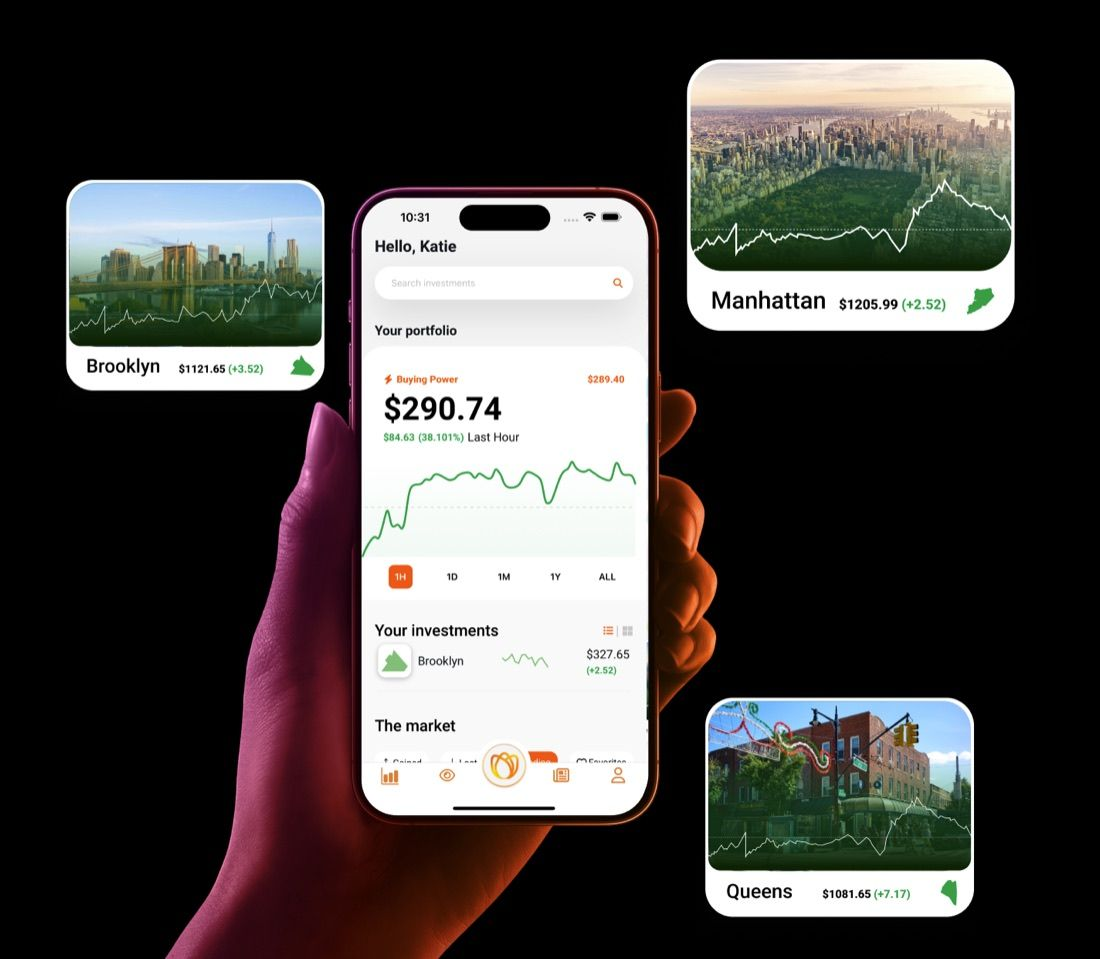
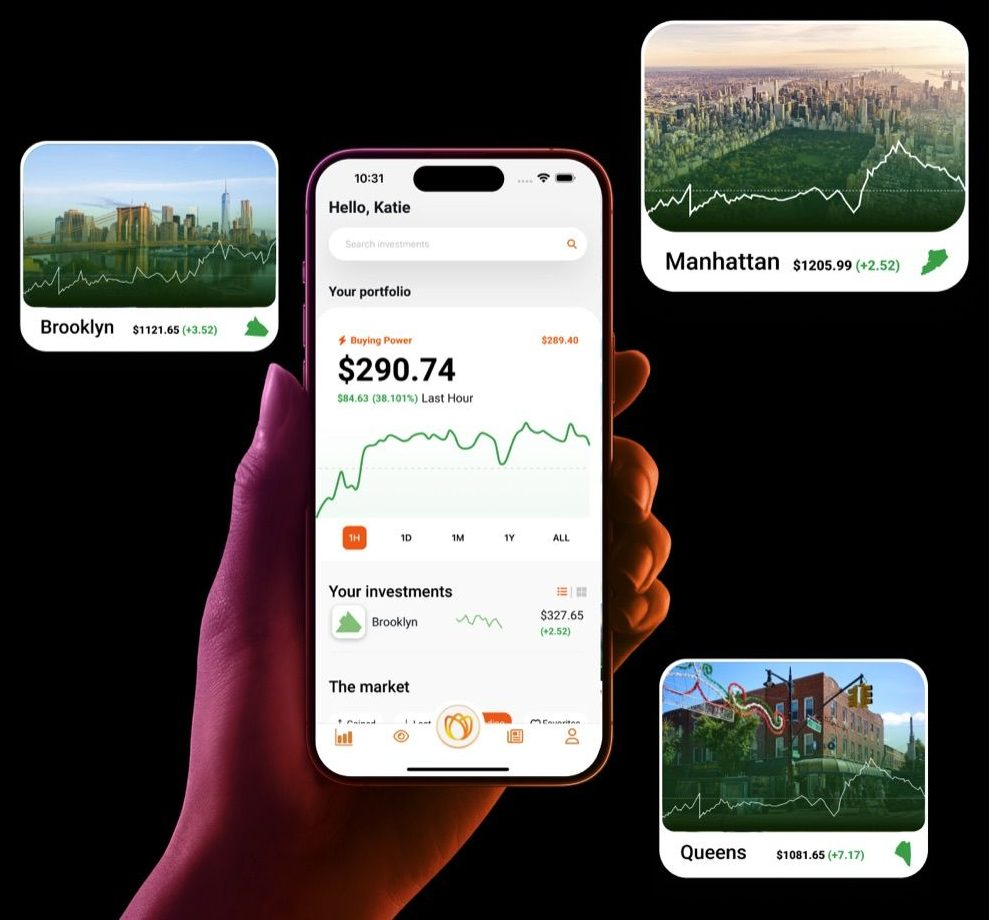
wip: 12 file(s) in progress
STATUS.md
public/story/cs173-proof.jpg
public/story/tulip-app.jpg
src/data.ts
src/data/journey.ts
src/site/Sections.tsx
src/site/StoryMode.tsx
src/site/ask/knowledge.ts
src/site/game/chapters.ts
src/site/game/scene.ts
src/site/pages/shared.tsx
src/site/timeline.ts

diff --git a/src/site/Sections.tsx b/src/site/Sections.tsx
@@ -12,7 +12,7 @@ import { CONTACT, periodRange } from "./timeline";
 export const SECTIONS = [
   { id: "experience", label: "Experience" },
   { id: "projects", label: "Projects" },
-  { id: "school", label: "School" },
+  { id: "school", label: "Education" },
   { id: "involvement", label: "Involvement" },
   { id: "guides", label: "Guides" },
 ];
@@ -228,40 +228,6 @@ const ExpSheet = ({ e, onClose }: { e: Exp | null; onClose: () => void }) => {
   );
 };
 
-// A card that shows a photo on hover (tap on touch); the hint only appears once the photo loads
-const PhotoPeek = ({ src, caption, children }: { src: string; caption: string; children: ReactNode }) => {
-  const [ok, setOk] = useState(false);
-  const [open, setOpen] = useState(false);
-  useEffect(() => {
-    const img = new Image();
-    img.onload = () => setOk(true);
-    img.src = src;
-  }, [src]);
-  if (!ok) return <>{children}</>;
-  return (
-    <div className="relative cursor-pointer" onMouseEnter={() => setOpen(true)} onMouseLeave={() => setOpen(false)} onClick={() => setOpen((o) => !o)} data-card>
-      {children}
-      <span className="absolute top-4 right-4 rx-chip bg-[#070b14]/70 pointer-events-none">📷 photo</span>
-      <AnimatePresence>
-        {open && (
-          <div className="absolute z-20 left-1/2 -translate-x-1/2 bottom-[calc(100%-12px)] md:left-[calc(100%+32px)] md:translate-x-0 md:bottom-auto md:top-[-30px] pointer-events-none">
-            <motion.figure
-              initial={{ opacity: 0, y: 16, rotate: -8, scale: 0.85 }}
-              animate={{ opacity: 1, y: 0, rotate: -3, scale: 1 }}
-              exit={{ opacity: 0, y: 10, rotate: -6, scale: 0.92 }}
-              transition={{ type: "spring", stiffness: 320, damping: 24 }}
-              className="w-[260px] md:w-[320px] p-2.5 pb-3 rounded-[22px] bg-[#e6ecf5] shadow-[0_30px_80px_rgba(0,0,0,0.6)]"
-            >
-              <img src={src} alt={caption} className="w-full rounded-2xl object-cover" />
-              <figcaption className="mt-2 text-center italic text-[1.05rem] text-[#070b14]">{caption}</figcaption>
-            </motion.figure>
-          </div>
-        )}
-      </AnimatePresence>
-    </div>
-  );
-};
-
 type Props = {
   vw: number;
   navH: number;
@@ -413,10 +379,10 @@ const Sections = ({ vw, navH, globe, done, fine, reduce, onOpen, onGuide, onAsk,
           </div>
         </section>
 
-        {/* ── School ── */}
+        {/* ── Education ── */}
         <section id="rx-school" data-shape="gpa" data-sec="school" style={sec} className={`${pad} py-20 md:py-28 md:min-h-[90vh]`}>
           <div className={col}>
-            <Head title="School" />
+            <Head title="Education" />
             <div className="space-y-4">
               {education.map((e) => {
                 const card = (
@@ -458,19 +424,19 @@ const Sections = ({ vw, navH, globe, done, fine, reduce, onOpen, onGuide, onAsk,
                         )}
                       </p>
                     )}
+                    {e.photos && (
+                      <div className="mt-5 grid grid-cols-3 gap-2.5">
+                        {e.photos.map((p) => (
+                          <figure key={p.src}>
+                            <img src={p.src} alt={p.caption} loading="lazy" className="w-full aspect-[3/4] object-cover rounded-xl border border-[#e6ecf5]/15" />
+                            {p.caption && <figcaption className="mt-1.5 rx-mono text-[9px] text-[#8692a8]">{p.caption}</figcaption>}
+                          </figure>
+                        ))}
+                      </div>
+                    )}
                   </div>
                 );
-                return (
-                  <Reveal key={e.school}>
-                    {e.photo ? (
-                      <PhotoPeek src={e.photo} caption={`${e.degree} · ${e.period}`}>
-                        {card}
-                      </PhotoPeek>
-                    ) : (
-                      card
-                    )}
-                  </Reveal>
-                );
+                return <Reveal key={e.school}>{card}</Reveal>;
               })}
             </div>
           </div>

diff --git a/src/data/journey.ts b/src/data/journey.ts
@@ -47,6 +47,9 @@ export const milestones: Milestone[] = [
     body: "Joined Tulip, an app that lets you invest in real estate with just $1, as a software engineer intern.",
     vibe: 64,
     logo: "/tulip.png",
+    photos: [
+      { src: "/story/iventure-event.jpg", caption: "iVenture Accelerator" },
+    ],
   },
   {
     date: "2024-03-04",
@@ -56,6 +59,9 @@ export const milestones: Milestone[] = [
     body: "Discrete structures was really challenging and really theoretical. I hated it, but I had to get through it.",
     vibe: 36,
     dip: true,
+    photos: [
+      { src: "/story/cs173-proof.jpg", caption: "a CS173 proof by induction" },
+    ],
   },
   {
     date: "2024-03-25",
@@ -69,25 +75,15 @@ export const milestones: Milestone[] = [
     ],
   },
   {
-    date: "2024-04-22",
-    emoji: "❤",
-    short: "fell in love",
-    title: "Fell in love with CS",
-    body: "Not the courses: building things that solve real problems. That's what made me fall in love with it.",
-    vibe: 78,
-  },
-  {
     date: "2024-05-20",
     emoji: "🚀",
     short: "iVenture + Tulip",
     title: "Promoted to co-founder & CTO of Tulip",
-    body: "Did well enough to get promoted to co-founder & CTO. Tulip was backed by the iVenture Accelerator (cohort 10) with $10k in non-dilutive funding.",
+    body: "Did well enough to get promoted to co-founder & CTO. Raised $10k in non-dilutive funding from the iVenture Accelerator (cohort 10).",
     vibe: 88,
     logo: "/tulip.png",
-    stat: "$10k non-dilutive · iVenture cohort 10",
     photos: [
       { src: "/story/tulip-app.jpg", caption: "Tulip: real estate from $1" },
-      { src: "/story/iventure-event.jpg", caption: "iVenture Accelerator" },
     ],
   },
   {
@@ -112,15 +108,6 @@ export const milestones: Milestone[] = [
     logo: "https://brand.illinois.edu/wp-content/uploads/2024/02/Block-I-orange-blue-background.png",
   },
   {
-    date: "2024-10-07",
-    emoji: "📨",
-    short: "recruiting is hard",
-    title: "Learned how hard recruiting is",
-    body: "Hunting for internships showed me how brutal the process is, especially LeetCode. Love-hate: the algorithms are fun, but memorizing really hard ones mostly feels like a chore.",
-    vibe: 46,
-    dip: true,
-  },
-  {
     date: "2025-01-13",
     emoji: "🧑🏫",
     short: "CS128 CA",
@@ -130,25 +117,15 @@ export const milestones: Milestone[] = [
     logo: "https://brand.illinois.edu/wp-content/uploads/2024/02/Block-I-orange-blue-background.png",
   },
   {
-    date: "2025-02-10",
-    emoji: "🫥",
-    short: "YC: never sent",
-    title: "YC asked us a follow-up question",
-    body: "We applied to YC with Tulip and got an additional question back, a huge signal. My co-founder forgot to hit submit. A very low point.",
-    vibe: 22,
-    dip: true,
-    logo: "/ycLogo.svg",
-    stat: "1 follow-up question · 0 submits",
-  },
-  {
-    date: "2025-04-28",
+    date: "2025-05-12",
     emoji: "🥀",
     short: "Tulip ends",
-    title: "Tulip didn't work out",
-    body: "We needed a lot of funding to deal with legal issues, and my co-founder was graduating.",
-    vibe: 38,
+    title: "YC never saw our answer, and Tulip didn't work out",
+    body: "We applied to YC with Tulip and got an additional question back, a huge signal. My co-founder forgot to hit submit. A very low point. Then Tulip didn't work out: we needed a lot of funding to deal with legal issues, and my co-founder was graduating.",
+    vibe: 22,
     dip: true,
     logo: "/tulip.png",
+    stat: "1 follow-up question · 0 submits",
   },
   {
     date: "2025-05-19",
@@ -168,9 +145,9 @@ export const milestones: Milestone[] = [
     vibe: 92,
     logo: "/ycLogo.svg",
     photos: [
-      { src: "/story/yc-badge.jpg", caption: "my badge" },
-      { src: "/story/yc-stage.jpg", caption: "the main stage" },
-      { src: "/story/yc-llm-os.jpg", caption: "the LLM OS talk" },
+      { src: "/story/yc-badge.jpg", caption: "" },
+      { src: "/story/yc-stage.jpg", caption: "Sam Altman and Garry Tan" },
+      { src: "/story/yc-llm-os.jpg", caption: "Andrej Karpathy" },
     ],
   },
   {

diff --git a/src/data.ts b/src/data.ts
@@ -15,7 +15,7 @@ export interface Education {
   gpa?: string;
   description?: string;
   relevantCourses?: string[];
-  photo?: string;
+  photos?: { src: string; caption: string }[];
 }
 
 export interface Involvement {
@@ -85,7 +85,7 @@ export const experiences = [
     summary: "Co-founded a $1 real estate investing app and led its engineering",
     tags: ["React Native", "TypeScript", "AMM"],
     details:
-      "Tulip lets anyone invest in real estate with just $1, backed by the iVenture Accelerator (cohort 10). I joined as a software engineer intern in Jan 2024 and was promoted to co-founder & CTO in May 2024, leading the mobile app, the beta website, and the Automated Market Maker (AMM) algorithm.",
+      "Tulip lets anyone invest in real estate with just $1. We raised $10k in non-dilutive funding from the iVenture Accelerator (cohort 10). I joined as a software engineer intern in Jan 2024 and was promoted to co-founder & CTO in May 2024, leading the mobile app, the beta website, and the Automated Market Maker (AMM) algorithm.",
     website: "https://www.tulip.markets/",
   },
   {
@@ -97,7 +97,7 @@ export const experiences = [
     summary: "Building Tulip in the iV10 founder cohort",
     tags: ["Startups", "Product", "Fundraising"],
     details:
-      "Tulip was part of iVenture Accelerator's 10th cohort (iV10), with $10k in non-dilutive funding. I was a Founder in Residence while building it.",
+      "We raised $10k in non-dilutive funding for Tulip from iVenture Accelerator's 10th cohort (iV10). I was a Founder in Residence while building it.",
   },
   {
     title: "Software Engineer Intern",
@@ -110,6 +110,18 @@ export const experiences = [
     tags: ["Android", "Machine learning", "Computer vision"],
     details:
       "I developed a real-time American Sign Language to English Android app, and optimized the translation system through machine learning.",
+  },
+  {
+    title: "Software Engineer Intern",
+    company: "Tulip",
+    companyIcon: "/tulip.png",
+    period: "Jan 2024 - May 2024",
+    description: "Software engineer intern at Tulip, before being promoted to co-founder & CTO.",
+    summary: "Joined Tulip as a software engineer intern",
+    tags: ["React Native", "TypeScript", "AMM"],
+    details:
+      "Joined Tulip, an app that lets anyone invest in real estate with just $1, as a software engineer intern. Promoted to co-founder & CTO in May 2024.",
+    website: "https://www.tulip.markets/",
   },
 ];
 
@@ -133,7 +145,11 @@ export const education = [
     period: "June 2025",
     image: "/ycLogo.svg",
     description: "Event Details - https://events.ycombinator.com/ai-sus",
-    photo: "/yc-ai-sus.jpg",
+    photos: [
+      { src: "/story/yc-badge.jpg", caption: "" },
+      { src: "/story/yc-stage.jpg", caption: "Sam Altman and Garry Tan" },
+      { src: "/story/yc-llm-os.jpg", caption: "Andrej Karpathy" },
+    ],
   },
 ];
 

diff --git a/src/site/StoryMode.tsx b/src/site/StoryMode.tsx
@@ -15,10 +15,12 @@ const FS = range(0, scenes.length);
 // point on the vibe line; on phones it's a swipeable row.
 const Photos = ({ photos, wide, room }: { photos: NonNullable<Scene["photos"]>; wide: boolean; room?: number }) => {
   const ref = useRef<HTMLDivElement>(null);
-  const [h, setH] = useState(190);
+  const [h, setH] = useState(280);
+  const [tall, setTall] = useState(false);
+  const square = wide && tall && photos.length === 1;
   useLayoutEffect(() => {
     if (!wide || !room) return;
-    const fit = () => ref.current && setH(Math.max(90, Math.min(190, room - ref.current.offsetTop - 30)));
+    const fit = () => ref.current && setH(Math.max(90, Math.min(280, room - ref.current.offsetTop - 30)));
     fit();
     document.fonts?.ready.then(fit);
   }, [wide, room]);
@@ -37,10 +39,11 @@ const Photos = ({ photos, wide, room }: { photos: NonNullable<Scene["photos"]>; 
             src={p.src}
             alt={p.caption}
             loading="lazy"
-            style={wide ? { maxHeight: h } : undefined}
-            className={`block w-auto h-auto rounded-xl border border-[#e6ecf5]/15 ${wide ? "max-w-[520px]" : "max-h-40 max-w-[78vw]"}`}
+            onLoad={(e) => setTall(e.currentTarget.naturalHeight > e.currentTarget.naturalWidth * 1.1)}
+            style={square ? { width: h, height: h, objectFit: "cover" } : wide ? { maxHeight: h } : undefined}
+            className={`block w-auto h-auto rounded-xl border border-[#e6ecf5]/15 ${wide ? "max-w-[520px]" : "max-h-[min(52vh,340px)] max-w-[78vw]"}`}
           />
-          <figcaption className="mt-2 rx-mono text-[10px] text-[#8692a8]">{p.caption}</figcaption>
+          {p.caption && <figcaption className="mt-2 rx-mono text-[10px] text-[#8692a8]">{p.caption}</figcaption>}
         </motion.figure>
       ))}
     </div>

diff --git a/src/site/ask/knowledge.ts b/src/site/ask/knowledge.ts
@@ -31,6 +31,12 @@ export const EXTRA_FACTS: KBEntry[] = [
     text: "Jonathan is always open to opportunities, especially startups that align with his passion. He's always looking to rejoin the startup space.\nBook a 30-minute call: https://calendly.com/jonathanbernard265/30min",
     tags: ["looking", "open", "opportunity", "opportunities", "available", "availability", "startup", "startups", "hire", "hiring", "job", "role", "recruit", "interested", "calendly", "call"],
   },
+  {
+    path: "kb/site/easter-eggs.md",
+    title: "Easter eggs on this website",
+    text: "The globe on the home page hides a game: flick (fling) the globe hard 3 times within 4 seconds and it opens a flight through Jonathan's journey around the world, from home in Bandung to AWS in Seattle. The path climbs when things went well and dips and loops back at the rough patches.\nIn this terminal, try typing: sudo hire jonathan",
+    tags: ["easter", "egg", "eggs", "secret", "hidden", "game", "globe", "surprise", "fun", "trick", "website", "site", "sudo"],
+  },
 ];
 
 // Shown on the live site's hero and contact buttons, not stored in the data files
@@ -49,8 +55,8 @@ const slug = (s: string) =>
 
 
 const fmtTerm = (iso: string) => {
-  const m = Number(iso.slice(5, 7));
-  return `${m <= 4 ? "Spring" : m <= 7 ? "Summer" : "Fall"} ${iso.slice(0, 4)}`;
+  const m = Number(iso.slice(5, 7)) + (Number(iso.slice(8, 10)) > 15 ? 0.5 : 0);
+  return `${m <= 5 ? "Spring" : m <= 7.5 ? "Summer" : "Fall"} ${iso.slice(0, 4)}`;
 };
 
 const taxbuddy = projects.find((p) => p.id === "taxbuddy")!;

diff --git a/src/site/game/scene.ts b/src/site/game/scene.ts
@@ -203,27 +203,6 @@ const monument = (mark: Mark, ticks: Tick[]) => {
     const roof = add(g, cyl(1, 1, 2.8, 3), stone, 0, 3.03, 0);
     roof.rotation.x = -Math.PI / 2;
     roof.scale.set(2.2, 1, 0.75);
-  } else if (mark === "laptop") {
-    const shell = std("#c9d1de", { roughness: 0.4, metalness: 0.3 });
-    add(g, box(3, 0.18, 2), shell, 0, 0.09, 0);
-    const lid = new THREE.Group();
-    lid.position.set(0, 0.18, -1);
-    lid.rotation.x = -0.25;
-    g.add(lid);
-    add(lid, box(3, 2, 0.12), shell, 0, 1, 0);
-    add(lid, new THREE.PlaneGeometry(2.7, 1.7), new THREE.MeshBasicMaterial({ color: "#1b3d78" }), 0, 1, 0.07);
-    const code = new THREE.MeshBasicMaterial({ color: "#8ab8ff" });
-    [1.4, 0.9, 1.8, 1.1, 0.6].forEach((w, k) => add(lid, box(w, 0.09, 0.01), code, -1.2 + w / 2 + (k % 2) * 0.25, 1.6 - k * 0.28, 0.08));
-  } else if (mark === "heart") {
-    const s = new THREE.Shape();
-    s.moveTo(0, -1);
-    s.bezierCurveTo(-0.2, -0.7, -1.2, -0.2, -1.2, 0.45);
-    s.bezierCurveTo(-1.2, 1.1, -0.4, 1.3, 0, 0.7);
-    s.bezierCurveTo(0.4, 1.3, 1.2, 1.1, 1.2, 0.45);
-    s.bezierCurveTo(1.2, -0.2, 0.2, -0.7, 0, -1);
-    const h = add(g, extrude(s, 0.5), std("#ff4d6d", { emissive: "#ff2850", emissiveIntensity: 0.35 }), 0, 3.2, 0);
-    h.scale.setScalar(1.2);
-    ticks.push((t) => (h.rotation.y = t * 1.2));
   } else if (mark === "tulip") {
     const green = std("#3f8f5a");
     const petal = std("#f07a2c", { emissive: "#7a2a00", emissiveIntensity: 0.25 });

diff --git a/src/site/game/chapters.ts b/src/site/game/chapters.ts
@@ -1,12 +1,11 @@
 import { milestones, Milestone } from "../../data/journey";
 
-export type Mark = "flag" | "gedungsate" | "blocki" | "bank" | "laptop" | "heart" | "tulip" | "hand" | "mbs" | "card" | "guitar" | "seattle";
+export type Mark = "flag" | "gedungsate" | "blocki" | "bank" | "tulip" | "hand" | "mbs" | "card" | "guitar" | "seattle";
 export type GateInfo = { short: string; name: string; place?: string; logo?: string; marks: Mark[] };
 
 // The big chapters: each is a gate you fly through, with its monuments beside the path
 export const GATES: GateInfo[] = [
   { short: "finance major", name: "UIUC, as a finance major", place: "Champaign, IL", marks: ["blocki", "bank"] },
-  { short: "fell in love", name: "Falling for CS", place: "Champaign, IL", marks: ["laptop", "heart"] },
   { short: "iVenture + Tulip", name: "Tulip × iVenture", logo: "/tulip.png", marks: ["tulip"] },
   { short: "We Hear You", name: "We Hear You", logo: "/wehearyouLogo.png", marks: ["hand"] },
   { short: "Kredivo", name: "Kredivo", logo: "/kredivoLogo.png", place: "Singapore", marks: ["mbs", "card"] },

diff --git a/src/site/timeline.ts b/src/site/timeline.ts
@@ -16,10 +16,10 @@ export const periodRange = (period: string): [number, number] => {
   const e = new Date(endStart);
   return [start, new Date(e.getFullYear(), e.getMonth() + 1, 1).getTime()];
 };
-// Milestone dates are approximate, so they're shown as the semester they fell in
+// Milestone dates are approximate, so they're shown as the semester they fell in (spring runs to mid-May)
 export const fmtTerm = (iso: string) => {
-  const m = Number(iso.slice(5, 7));
-  return `${m <= 4 ? "Spring" : m <= 7 ? "Summer" : "Fall"} ${iso.slice(0, 4)}`;
+  const m = Number(iso.slice(5, 7)) + (Number(iso.slice(8, 10)) > 15 ? 0.5 : 0);
+  return `${m <= 5 ? "Spring" : m <= 7.5 ? "Summer" : "Fall"} ${iso.slice(0, 4)}`;
 };
 export const pad = (n: number) => String(n).padStart(2, "0");
 

diff --git a/src/site/pages/shared.tsx b/src/site/pages/shared.tsx
@@ -45,7 +45,6 @@ export const Shell = ({ section, children }: { section: Section; children: React
       <div className="rx-grain z-0" style={{ backgroundImage: `url(${grain})`, opacity: 0.045 }} aria-hidden />
       <button onClick={back} className="rxp-back rx-btn-ghost !text-[10.5px] rx-mono" aria-label="Back to Jonathan's site">
         <ArrowLeft className="w-3.5 h-3.5" strokeWidth={1.75} />
-        Jonathan
       </button>
       <main key={pathname} className="relative z-10 pb-32 md:pb-36">
         {children}

diff --git a/STATUS.md b/STATUS.md
@@ -4,13 +4,13 @@
 Fact-check interview with Jonathan done for story + knowledge base. `journey.ts` rewritten from his own
 account (28 stops, semesters not months, vibes confirmed); experience/education/TaxBuddy facts corrected;
 `EXTRA_FACTS` filled (hobbies, bowling, open to opportunities + Calendly). Alfred redeployed and verified
-live. demo.sh green. Frontend NOT redeployed yet.
+live. Story now has photos (`public/story/`, metadata stripped), logos and stat pills per scene;
+YC photos sit in Education. demo.sh green. Frontend NOT redeployed yet.
 
 ## Left
 - Redeploy the site so the frontend changes go live (new story, semesters, Calendly, Alfred welcome + chips).
 - Globe pass (Jonathan deferred it): Rilla (Aug 2026) sits between AWS and Now, so the game skips it;
   eyeball the new Singapore / Marina Bay Sands model; check 4 hero contact icons at 390px.
-- Drop the YC AI Startup School photo at `public/yc-ai-sus.jpg` (Jonathan has pics).
 - Fix the two slash-less companyIcons in `data.ts` (`kredivoLogo.png`, `wehearyouLogo.png`).
 - After editing data files or `EXTRA_FACTS`: rerun `alfred/deploy.sh` (KB is baked into the Lambda).
 
